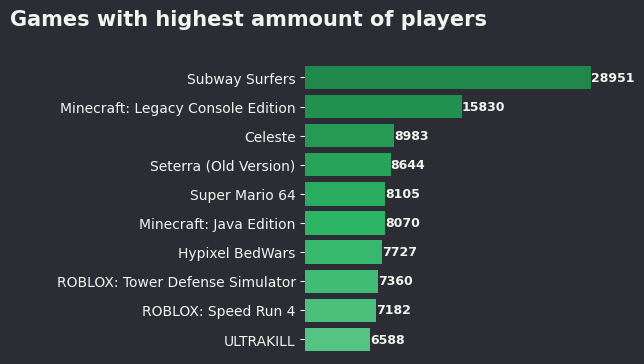
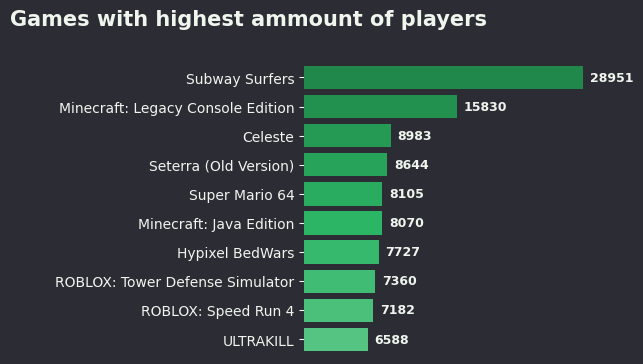
Corrected chars formating

diff --git a/projects/speedruncom-analysis/src/plot.py b/projects/speedruncom-analysis/src/plot.py
@@ -9,7 +9,7 @@ def BarChart(figsize, df, x, y, palette, bar_width, title, title_x):
     fig, ax = plt.subplots(figsize=(figsize))
     sns.barplot(df, x=x, y=y, palette=palette, width=bar_width, )
     for container in ax.containers:
-        ax.bar_label(container, fontsize=9, fontweight="bold")
+        ax.bar_label(container, fontsize=9, fontweight="bold", padding=5)
     plt.title(title, fontsize=15, color="#EFF6EE", x=title_x, y=1.1, fontweight="bold")
     plt.xlabel("")
     plt.ylabel("")
@@ -80,6 +80,7 @@ BarChart(figsize=(6, 4),
          bar_width=0.8, 
          title="Games with most submitted runs", 
          title_x=-0.06)
+plt.xticks([])
 
 # Player / run count per game release year
 df = pd.read_csv("../data/formated/count_per_year.csv").head(51).rename(columns={"runCount" : "Runs"}) #data from only 50 years of game releases is complete
